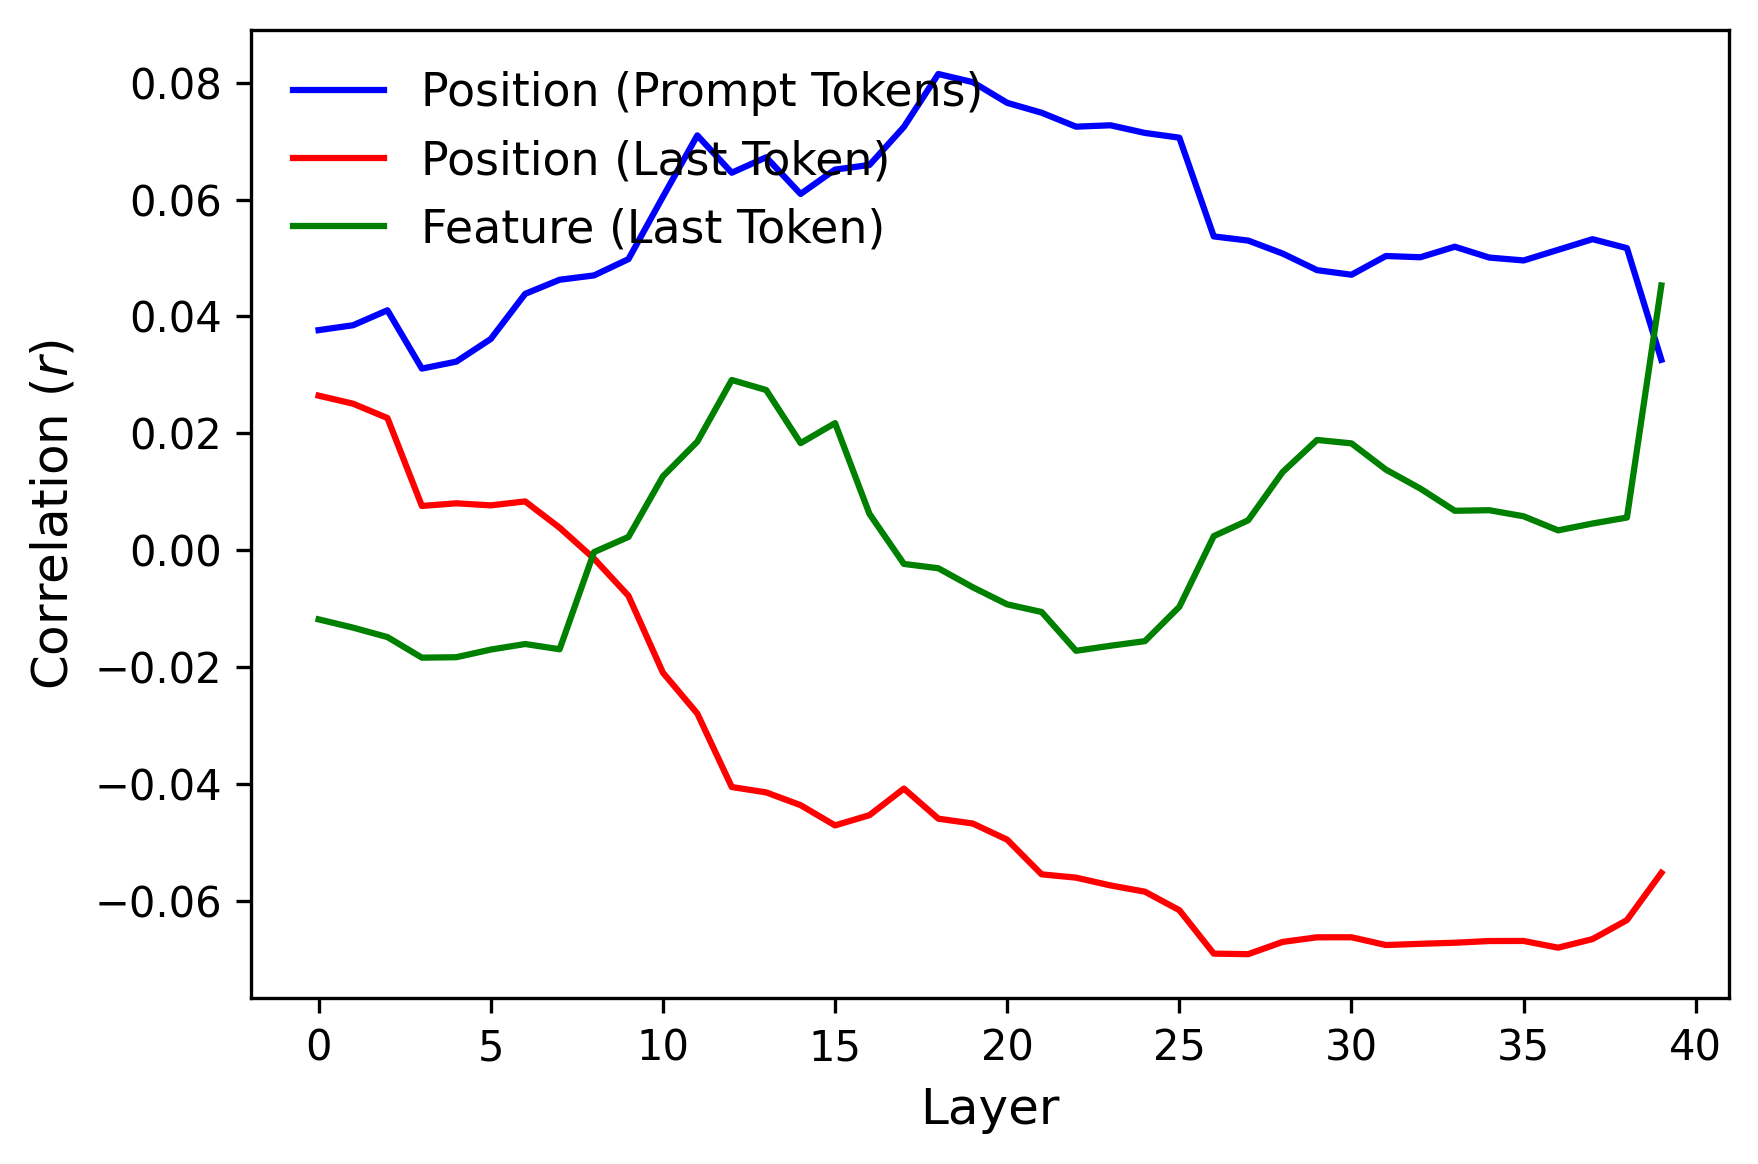
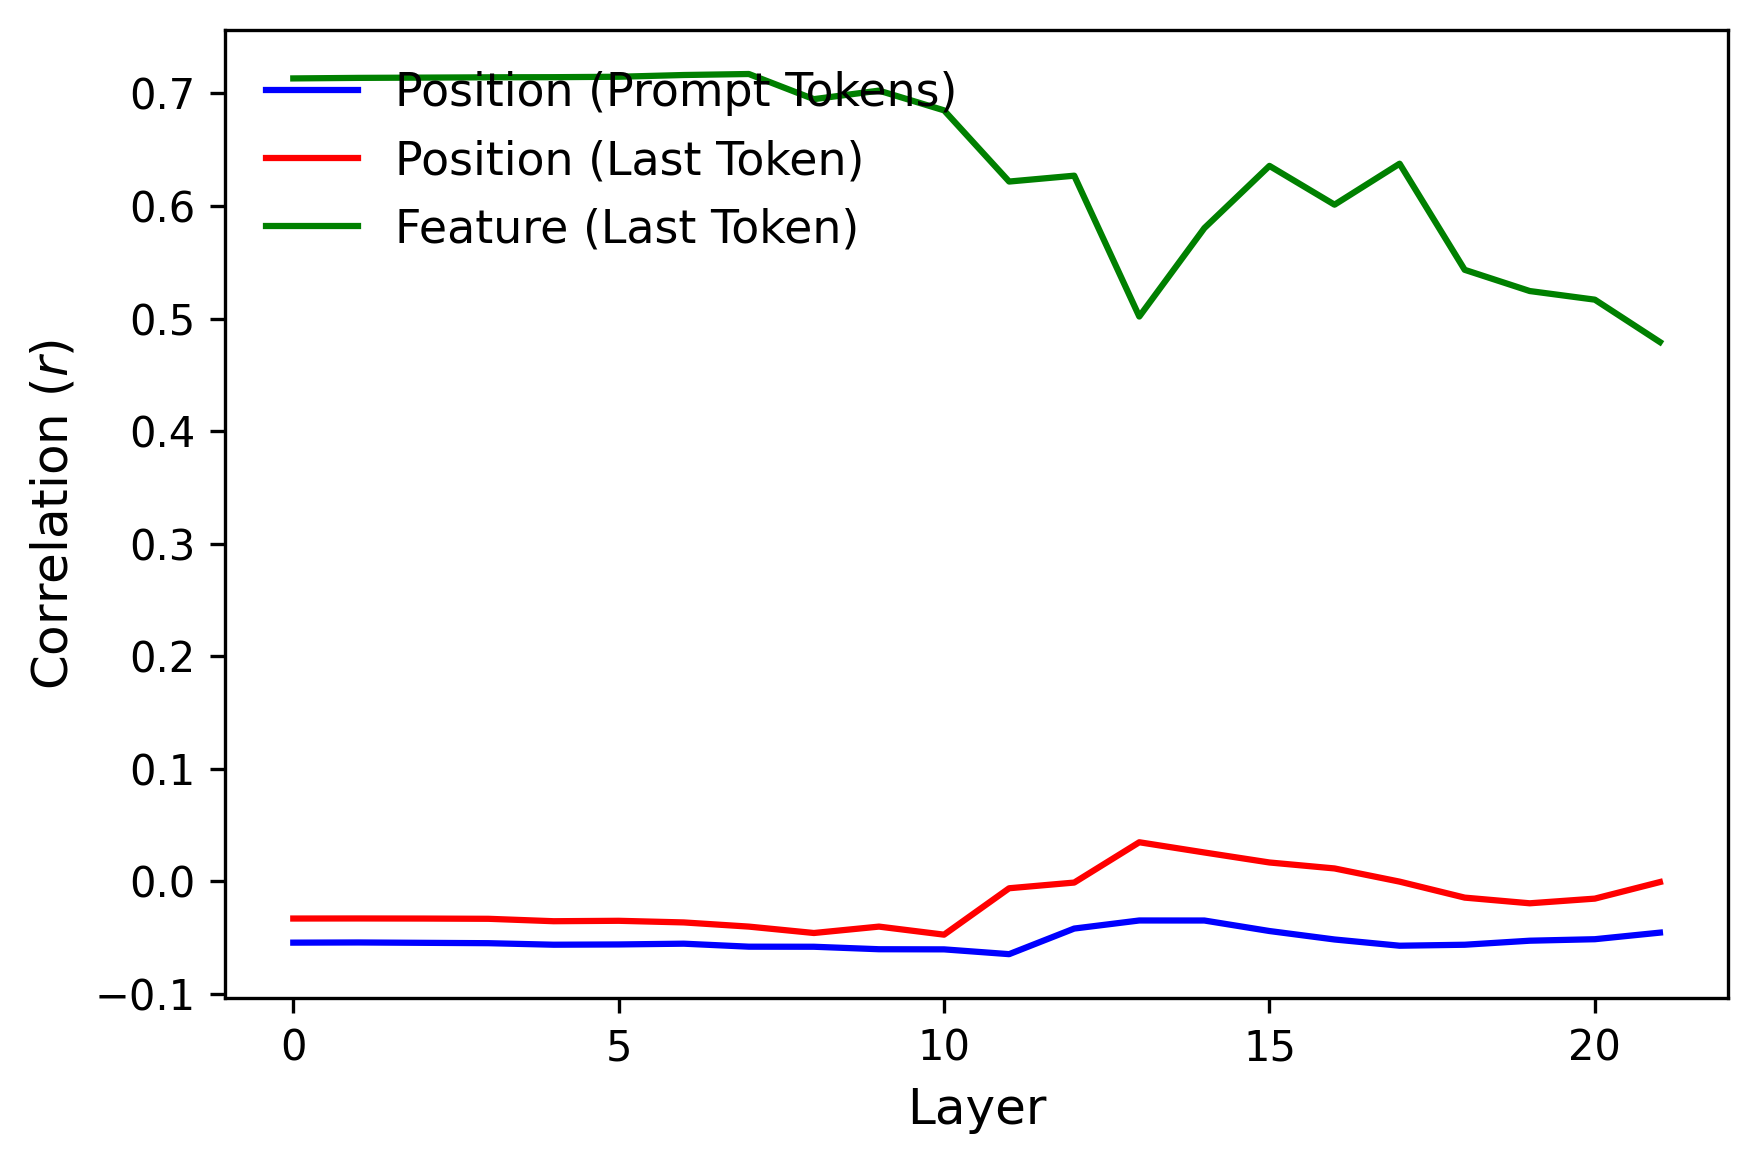
update

diff --git a/src/plots/rsa_1c.py b/src/plots/rsa_1c.py
@@ -2,7 +2,7 @@ from typing import Dict, List, Any
 import matplotlib.pyplot as plt
 import yaml
 import numpy as np
-import itertools
+from PIL import Image
 
 from src.math_core.rsa import compute_rsa_scores, _build_object_ids, build_target_rsms
 from src.mech_interp.tracer import rsa_tracer
@@ -80,24 +80,30 @@ def load_config(config_path: str = "configs/local.yaml"):
     with open(config_path, "r") as f:
         return yaml.safe_load(f)
     
-def get_dynamic_token_indices(processor: Any, colors: List[str], shapes: List[str], coords: List[tuple[int, int]]):
+def get_dynamic_token_indices(processor: Any, colors: List[str], shapes: List[str], coords: List[tuple[int, int]], image: Image.Image):
     """
     Dynamically calculates the exact sequence indices of the target objects
     by measuring token lengths, bypassing sub-word tokenization quirks.
     """
+    def get_token_index(prefix):
+        inputs = processor(text=prefix, images=image, return_tensors="pt")
+        input_ids = inputs["input_ids"][0].tolist()
+        index = len(input_ids)-1
+        decoded = processor.tokenizer.decode([input_ids[index]])
+        print("Token index:", index, decoded)
+        return index
+    
     indices = []
-    prefix = f"<image>\nIn this image, there is"
-    tokens_prefix = processor.tokenizer.encode(prefix)
+    prefix = "<image>\nIn this image, there is"
     shuffle = np.random.permutation(len(coords))
     for i in range(len(coords)-1):
         prefix = f"{prefix} a {colors[shuffle[i]]} {shapes[shuffle[i]]},"
-        tokens_prefix = processor.tokenizer.encode(prefix)
-        indices.append({'coords': coords[shuffle[i]], 'color': colors[shuffle[i]], 'shape': shapes[shuffle[i]], 'index': len(tokens_prefix) - 1})
+        token_index = get_token_index(prefix)
+        indices.append({'coords': coords[shuffle[i]], 'color': colors[shuffle[i]], 'shape': shapes[shuffle[i]], 'index': token_index})
         
     prefix = f"{prefix} and a {colors[shuffle[-1]]}"
-    tokens_prefix = processor.tokenizer.encode(prefix)
-    indices.append({'coords': coords[shuffle[-1]], 'color': colors[shuffle[-1]], 'shape': shapes[shuffle[-1]], 'index': len(tokens_prefix) - 1})
-
+    token_index = get_token_index(prefix)
+    indices.append({'coords': coords[shuffle[-1]], 'color': colors[shuffle[-1]], 'shape': shapes[shuffle[-1]], 'index': token_index})
     return indices, prefix
 
 def get_num_hidden_layers(model: Any) -> int:
@@ -172,10 +178,6 @@ def main():
         colors = [o1['color'], o2['color'], o3['color'], o4['color']]
         coords = [(0,0), (0,1), (1,0), (1,1)]
 
-        obj_indices, text_prompt = get_dynamic_token_indices(
-            processor, colors=colors, shapes=shapes, coords=coords
-        )
-
         img = generate_custom_image(
             cols=2, 
             rows=2, 
@@ -184,6 +186,10 @@ def main():
             coords=coords
         )
         
+        obj_indices, text_prompt = get_dynamic_token_indices(
+            processor, colors=colors, shapes=shapes, coords=coords, image=img
+        )
+
         # Process the inputs into PyTorch tensors
         inputs = processor(text=text_prompt, images=img, return_tensors="pt")
         # inputs = {k: v.to('cuda') if hasattr(v, 'to') else v for k, v in inputs.items()}